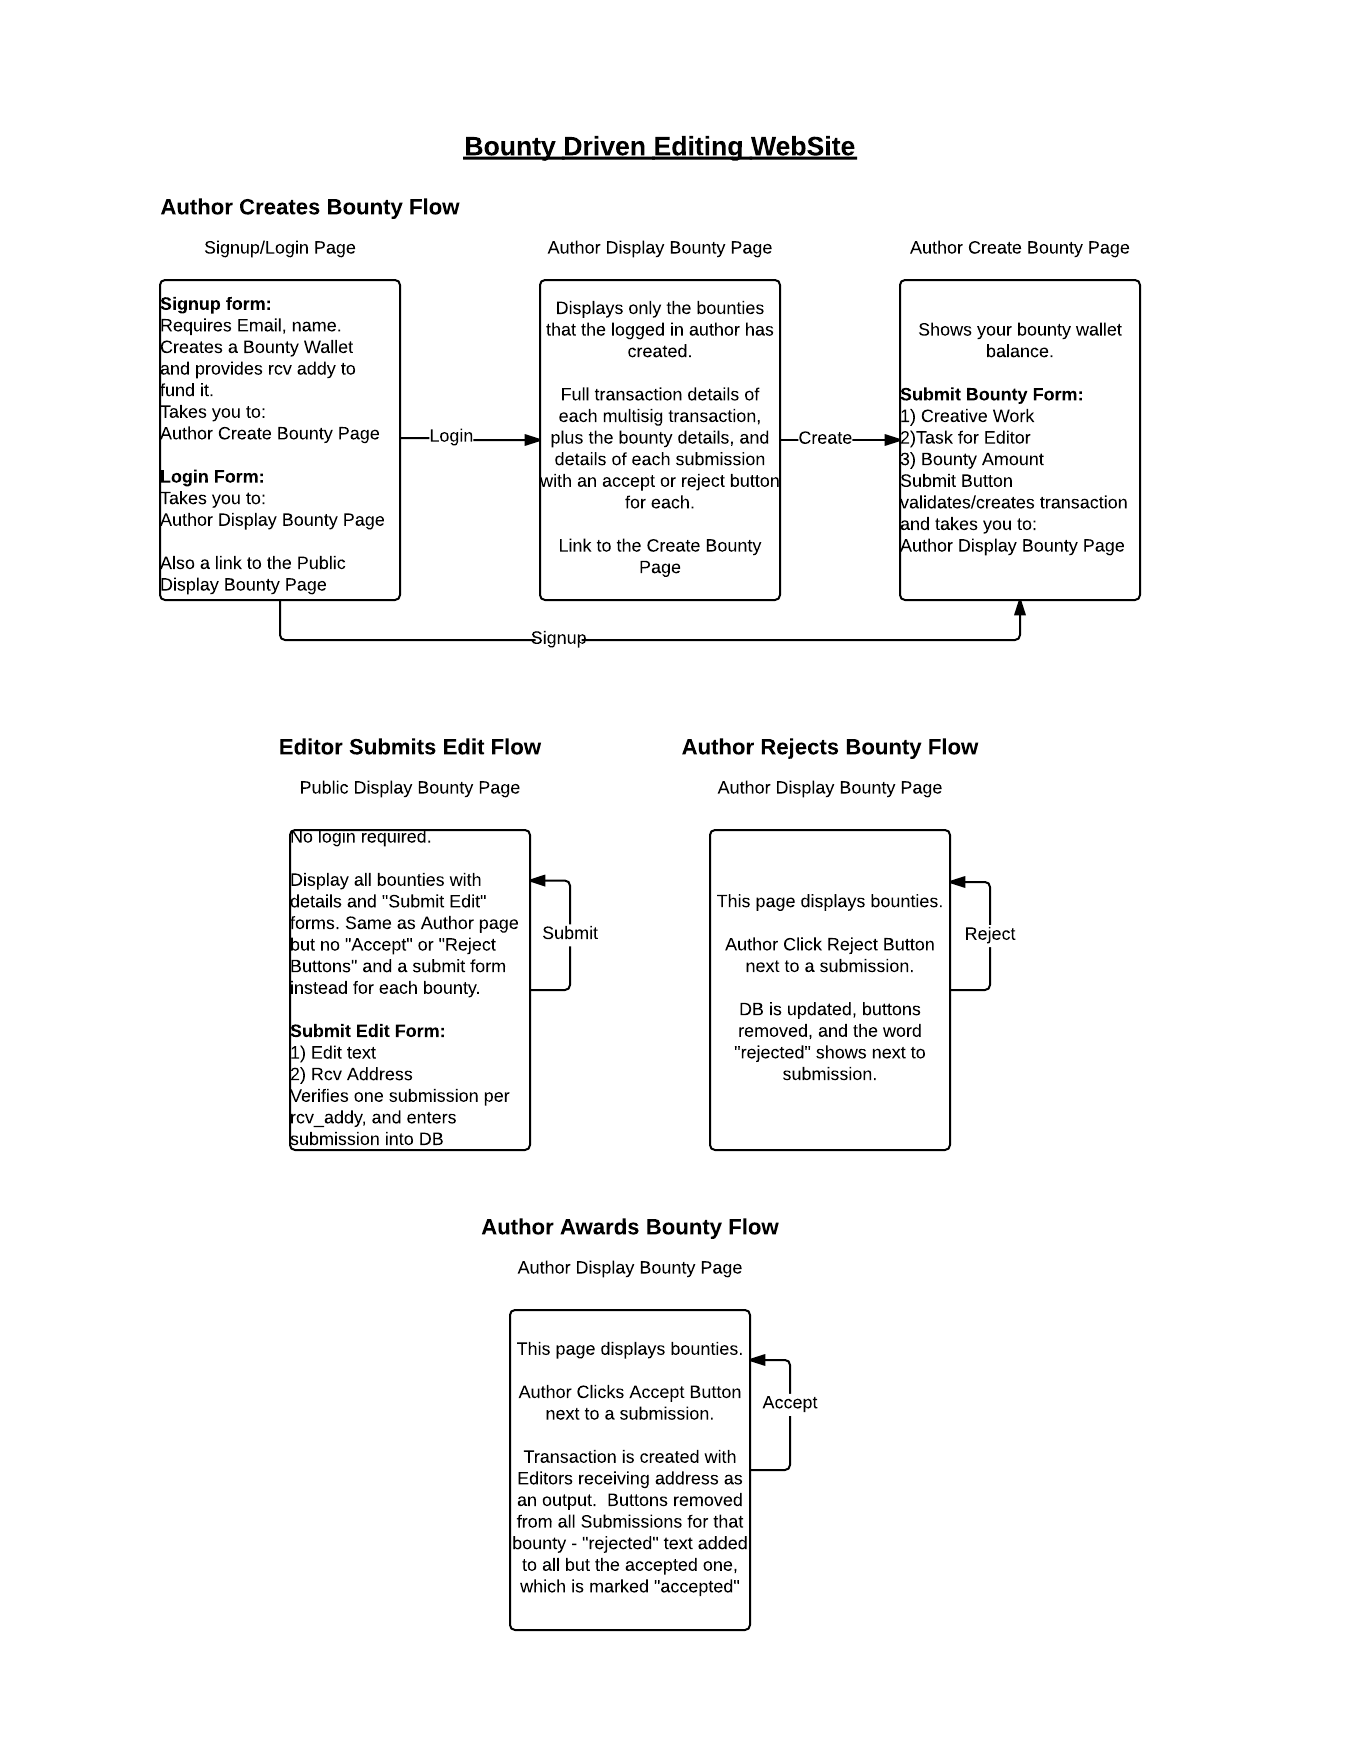
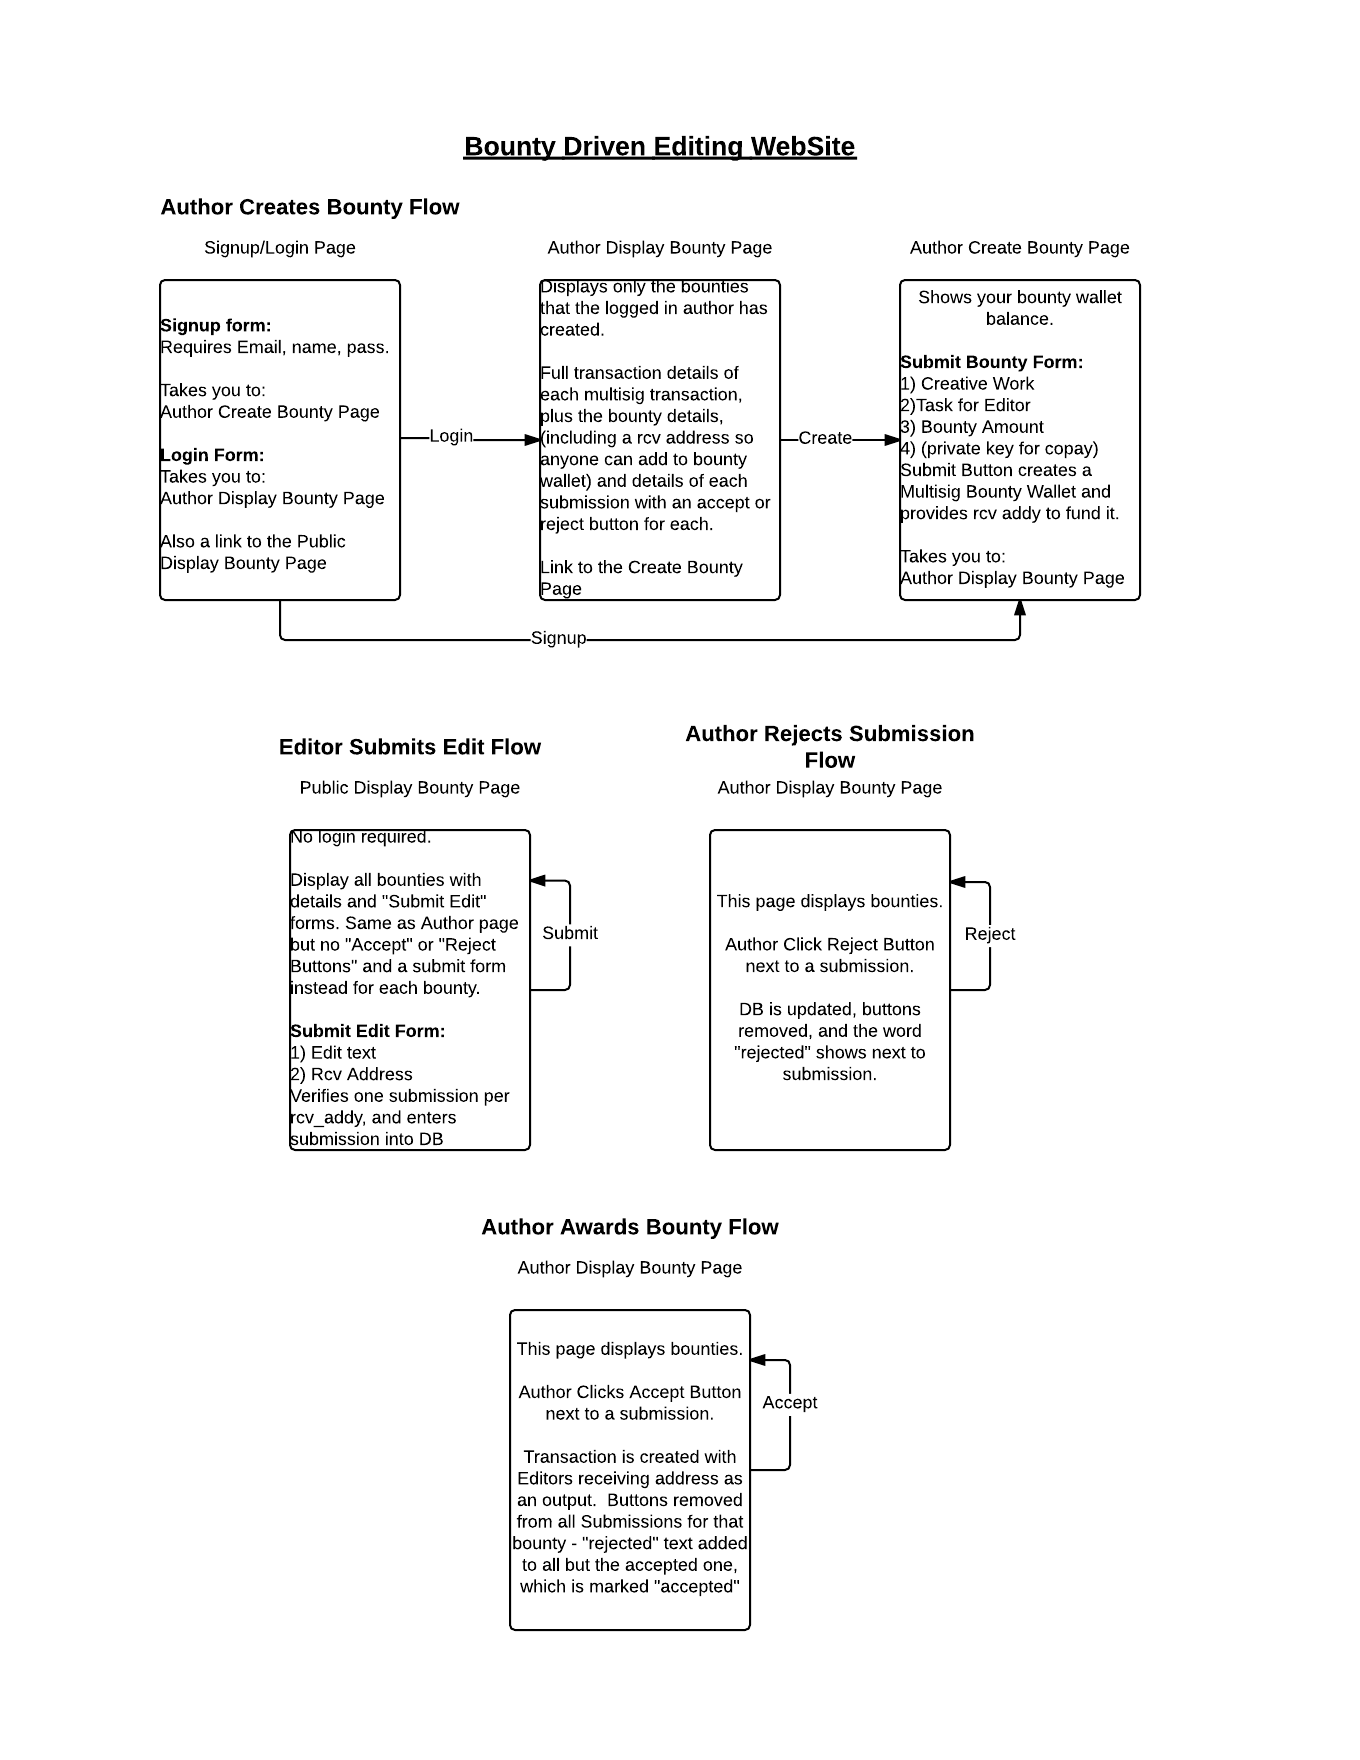
update mockup and add some comments

diff --git a/biotest.py b/biotest.py
@@ -1,5 +1,7 @@
 # block.io test
 #
+# Status - not working ATM - bug on line 137 - TypeError: Non-hexadecimal digit found
+#
 # This is just a test program to learn/exercise the block.io API as we would ultimately use it
 #
 # The issue I found with block.io is that the platform has to know all the secrets (be trusted).
